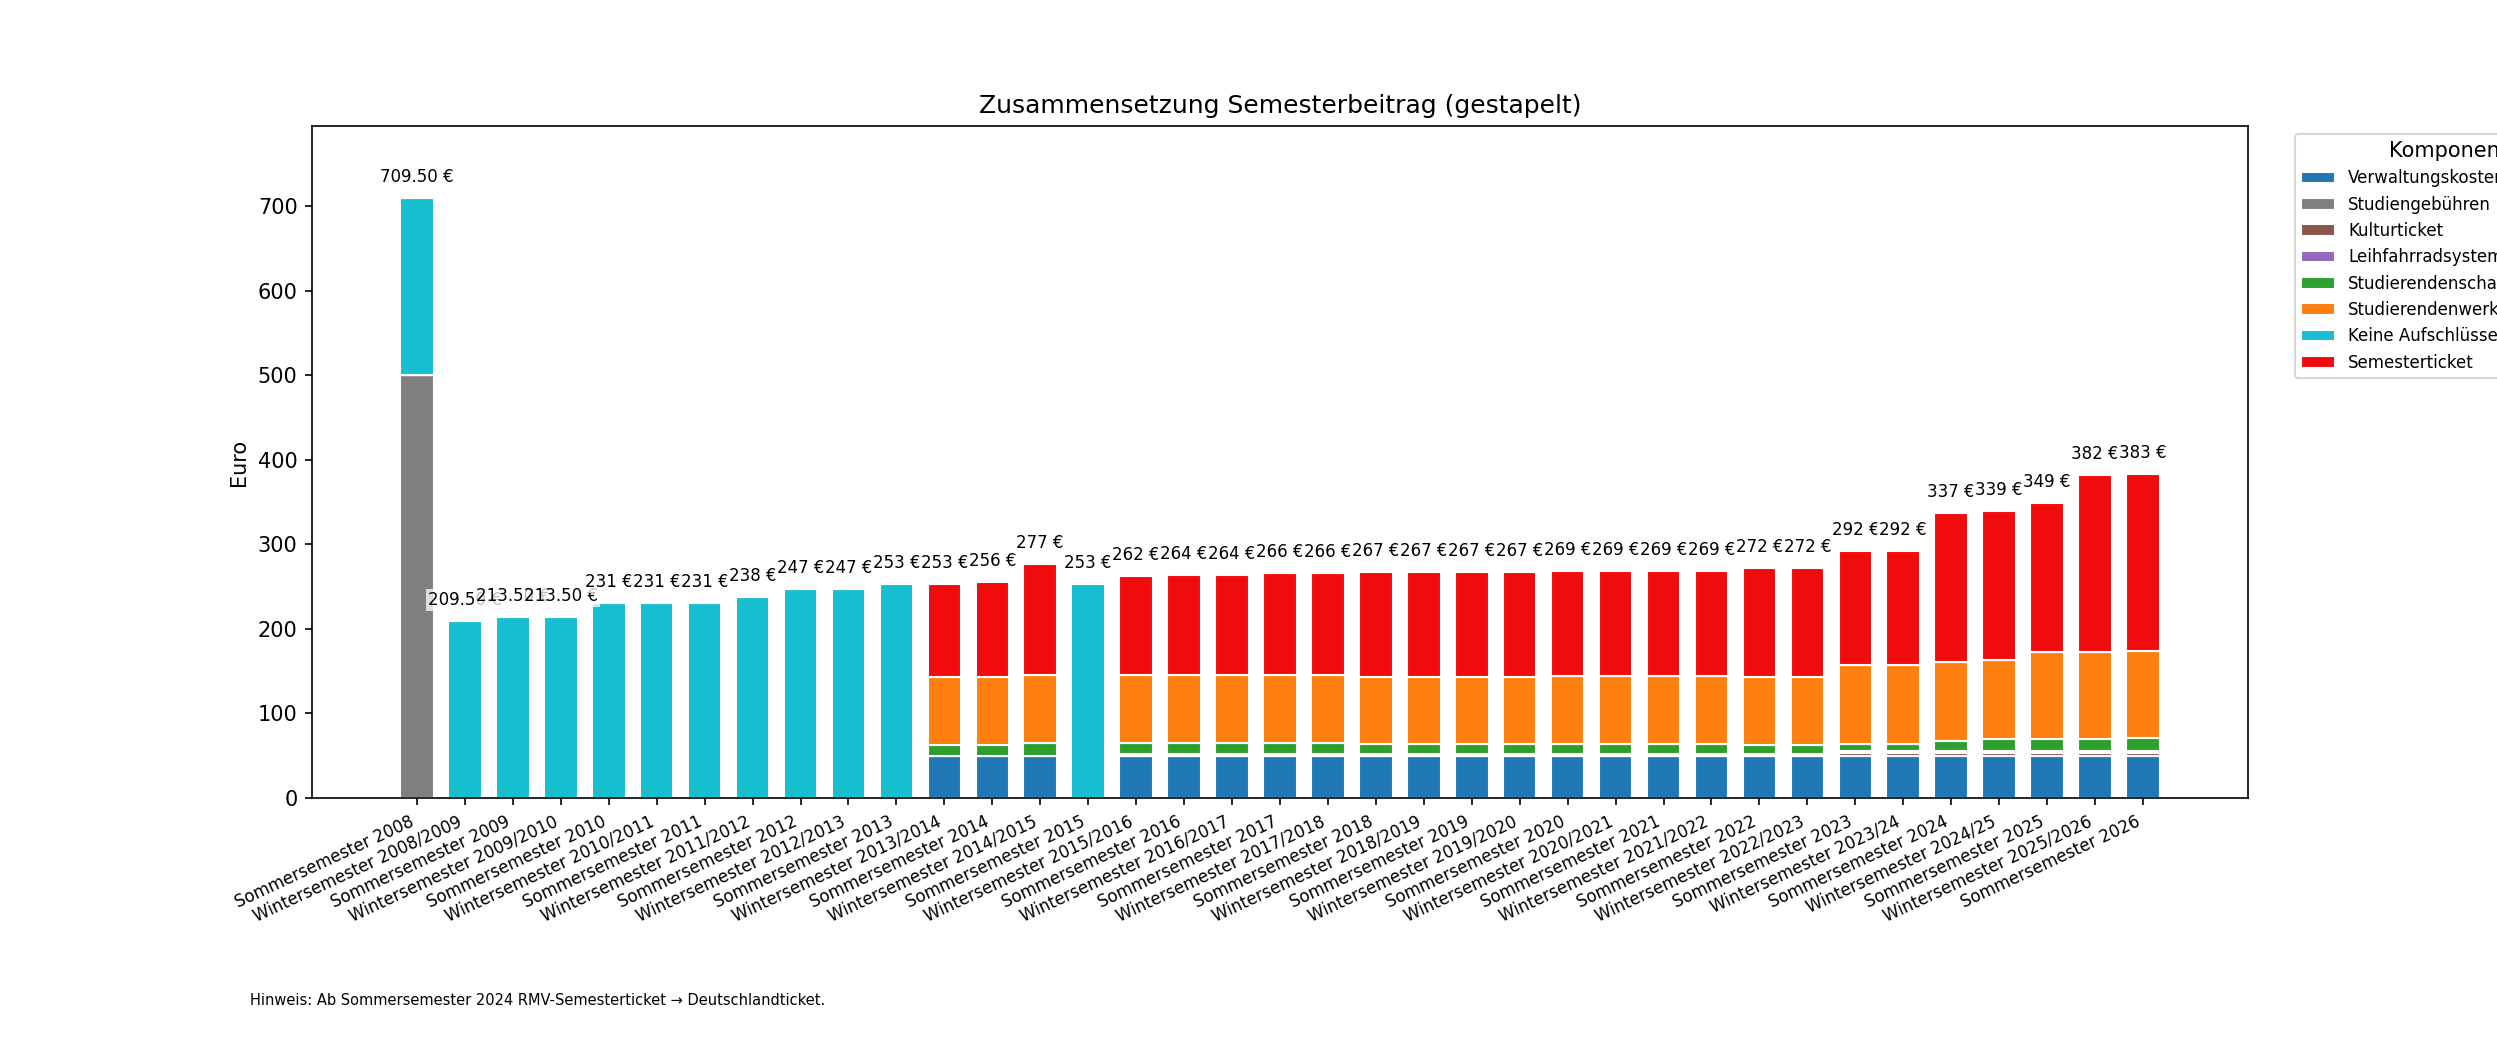
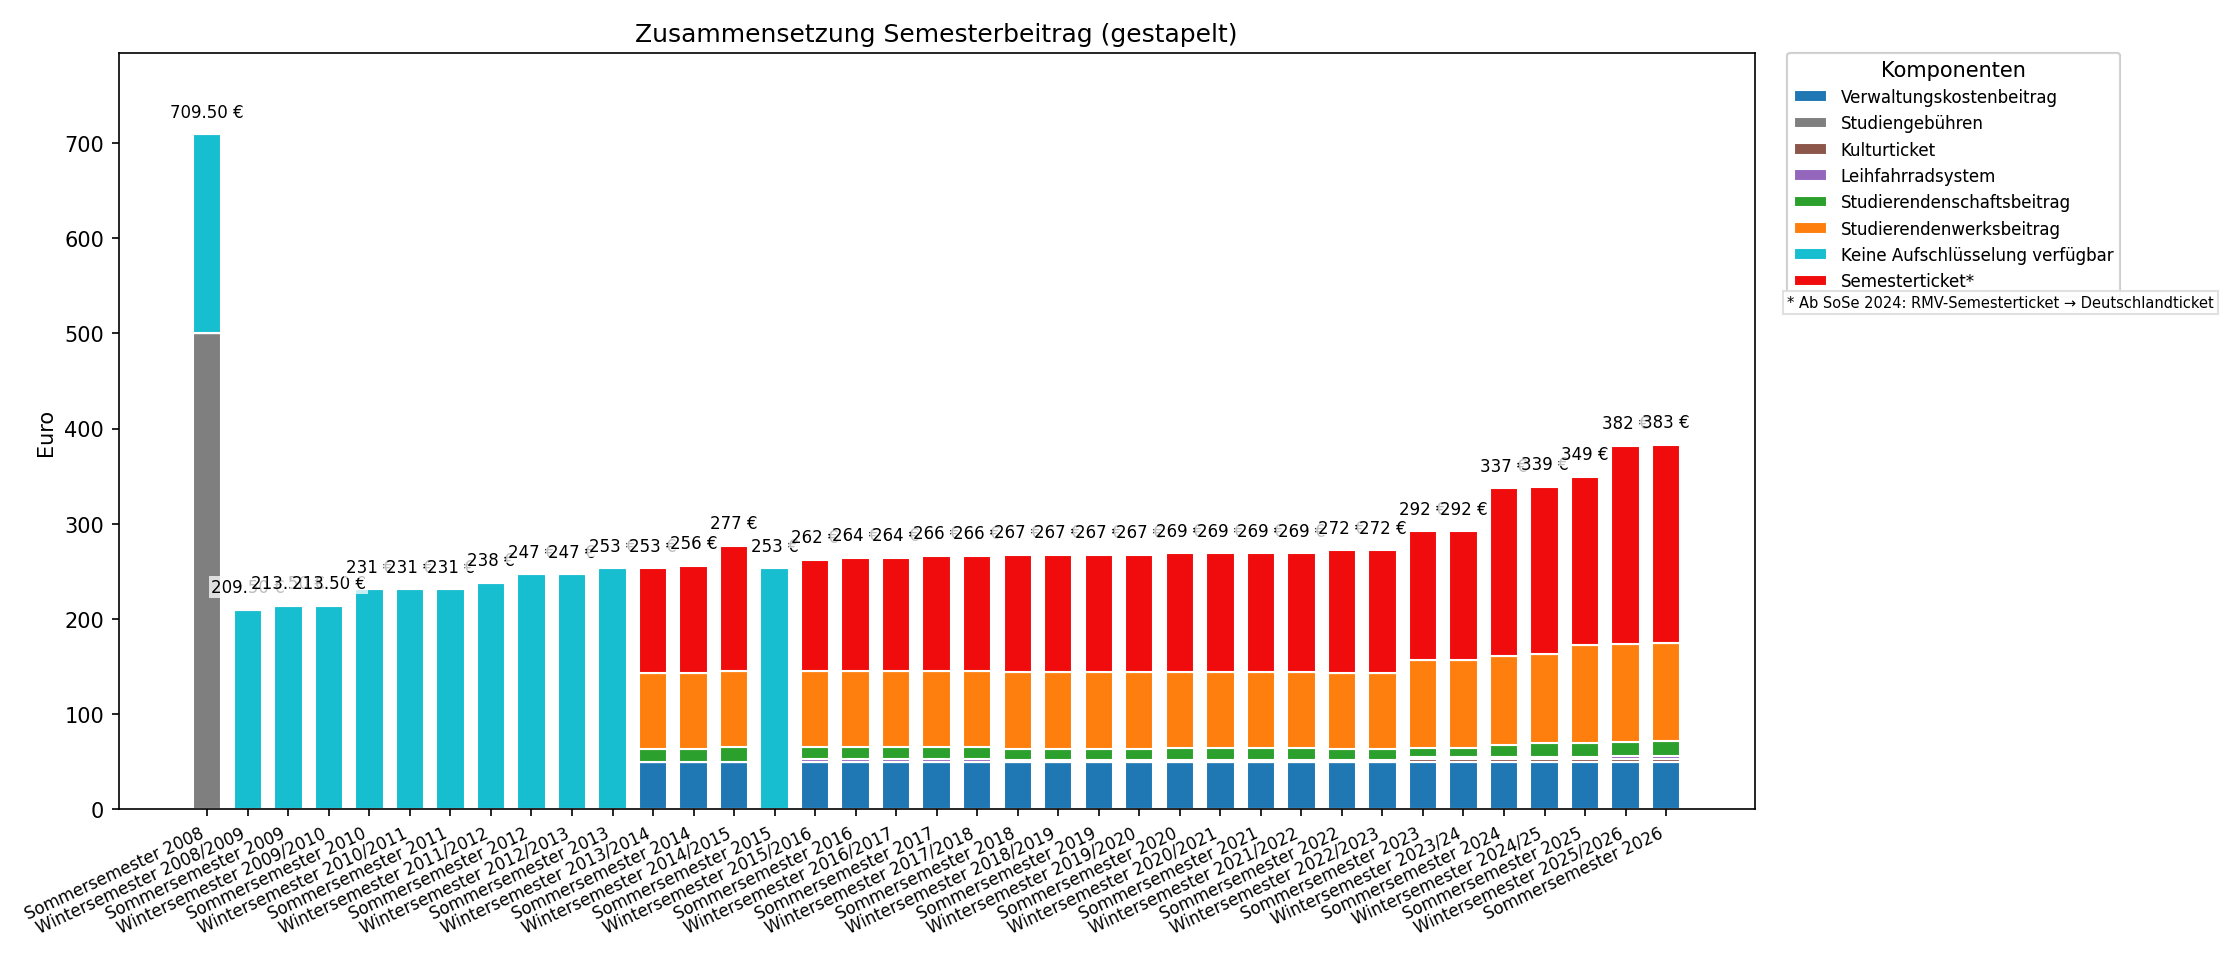
add plot info

diff --git a/generate_plot.py b/generate_plot.py
@@ -241,31 +241,54 @@ def plot_and_save(labels, totals, stack_values, components_order):
     ax.set_xticklabels(labels, rotation=25, ha="right", fontsize=8)
     ax.set_ylabel("Euro")
     ax.set_title("Zusammensetzung Semesterbeitrag (gestapelt)")
-    ax.legend(title="Komponenten", bbox_to_anchor=(1.02, 1), loc="upper left", fontsize=8)
 
     fig = plt.gcf()
-    has_footer = False
+    has_ss24 = any("Sommersemester 2024" in str(lbl) for lbl in labels)
 
-    # Sehr kurze Fußnote, falls Sommersemester 2024 im Plot ist
-    if any("Sommersemester 2024" in str(lbl) for lbl in labels):
-        has_footer = True
-        footer_text = "Hinweis: Ab Sommersemester 2024 RMV-Semesterticket → Deutschlandticket."
-        fig.subplots_adjust(bottom=0.24)
+    # Legendenlabels ggf. mit Sternchen versehen (nur Legende, nicht Daten/Stack)
+    handles, leg_labels = ax.get_legend_handles_labels()
+    if has_ss24:
+        leg_labels = [("Semesterticket*" if l == "Semesterticket" else l) for l in leg_labels]
+
+    # etwas mehr Platz rechts für Legende + Hinweis
+    fig.subplots_adjust(right=0.78, bottom=0.16)  # <- bottom erhöht (war 0.10)
+
+    # Haupt-Legende (Komponenten) rechts oben
+    legend_main = ax.legend(
+        handles,
+        leg_labels,
+        title="Komponenten",
+        bbox_to_anchor=(1.02, 1),
+        loc="upper left",
+        fontsize=8,
+        borderaxespad=0.0,
+    )
+    ax.add_artist(legend_main)
+
+    # Hinweis als Textbox direkt unterhalb der Komponenten-Legende (an Legenden-Box gekoppelt)
+    if has_ss24:
+        fig.canvas.draw()  # benötigt, damit legend_main eine korrekte bbox hat
+        bbox_fig = legend_main.get_window_extent(fig.canvas.get_renderer()).transformed(fig.transFigure.inverted())
+
         fig.text(
-            0.10,
-            0.04,
-            footer_text,
+            bbox_fig.x0,  # links bündig zur Legende
+            max(0.01, bbox_fig.y0 - 0.02),  # knapp darunter; clamp gegen negativ
+            "* Ab SoSe 2024: RMV-Semesterticket → Deutschlandticket",
             ha="left",
-            va="bottom",
+            va="top",
             fontsize=7,
+            bbox={"facecolor": "white", "alpha": 0.9, "pad": 2, "edgecolor": "#dddddd"},
         )
 
-    # Nur ohne Footer tight_layout, damit der Text nicht wieder hochgeschoben wird
-    if not has_footer:
-        plt.tight_layout()
+    # kein tight_layout, damit die manuelle Platzierung nicht verschoben wird
 
     os.makedirs(OUT_DIR, exist_ok=True)
-    plt.savefig(PNG_PATH, dpi=150)
+    plt.savefig(
+        PNG_PATH,
+        dpi=150,
+        bbox_inches="tight",  # <- verhindert Abschneiden (unten/rechts)
+        pad_inches=0.15,  # <- kleiner Sicherheitsrand
+    )
     plt.close()
     print("Plot gespeichert:", PNG_PATH)
 
